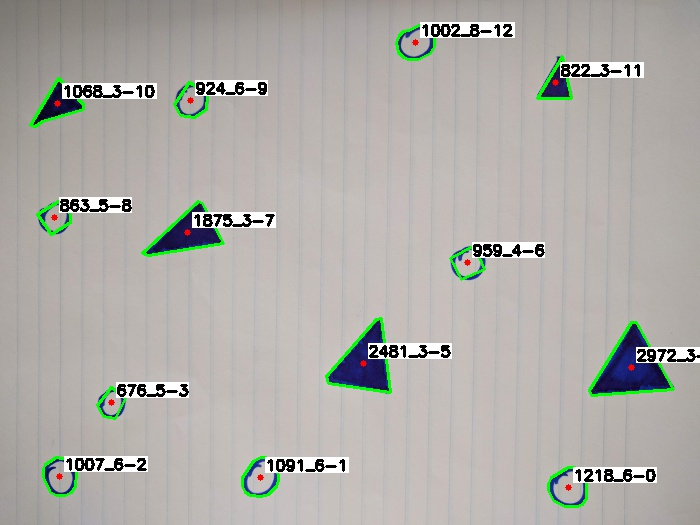
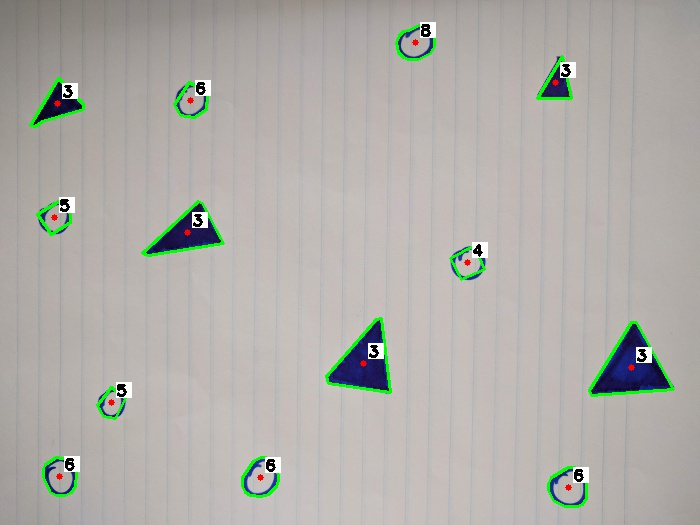
New images in out

diff --git a/image_process.py b/image_process.py
@@ -108,8 +108,7 @@ def get_data(image):
             if len(apr) < 3:
                 continue
 
-            # data = str(area) + "_" + str(len(apr))  # + "-" + str(perimeter)
-            data = str(area) + "_" + str(len(apr)) + "-" + str(total)
+            data = str(len(apr))
 
             M = cv2.moments(c)
             cX = int(M["m10"] / M["m00"])
@@ -117,7 +116,7 @@ def get_data(image):
             center = [cX, cY]
 
             cv2.drawContours(img, [approx], 0, (0, 255, 0), 2)
-            cv2.rectangle(img, (cX + 5, cY - 20), (cX + 11 * len(data), cY - 5), (255, 255, 255), -1)
+            cv2.rectangle(img, (cX + 5, cY - 20), (cX + 20 * len(data), cY - 5), (255, 255, 255), -1)
             cv2.putText(img, data, (cX + 5, cY - 7), cv2.FONT_HERSHEY_SCRIPT_SIMPLEX, 0.5, (0, 0, 0), 2)
             cv2.circle(img, (cX, cY), 3, (0, 0, 255), -1)
 
@@ -138,7 +137,6 @@ def get_data(image):
             total += 1
 
     return edge, img, list_obj
-
 
 # edge, new_img, list_poly = get_data("images/p15.jpg")
 # cv2.imshow("edge", edge)
